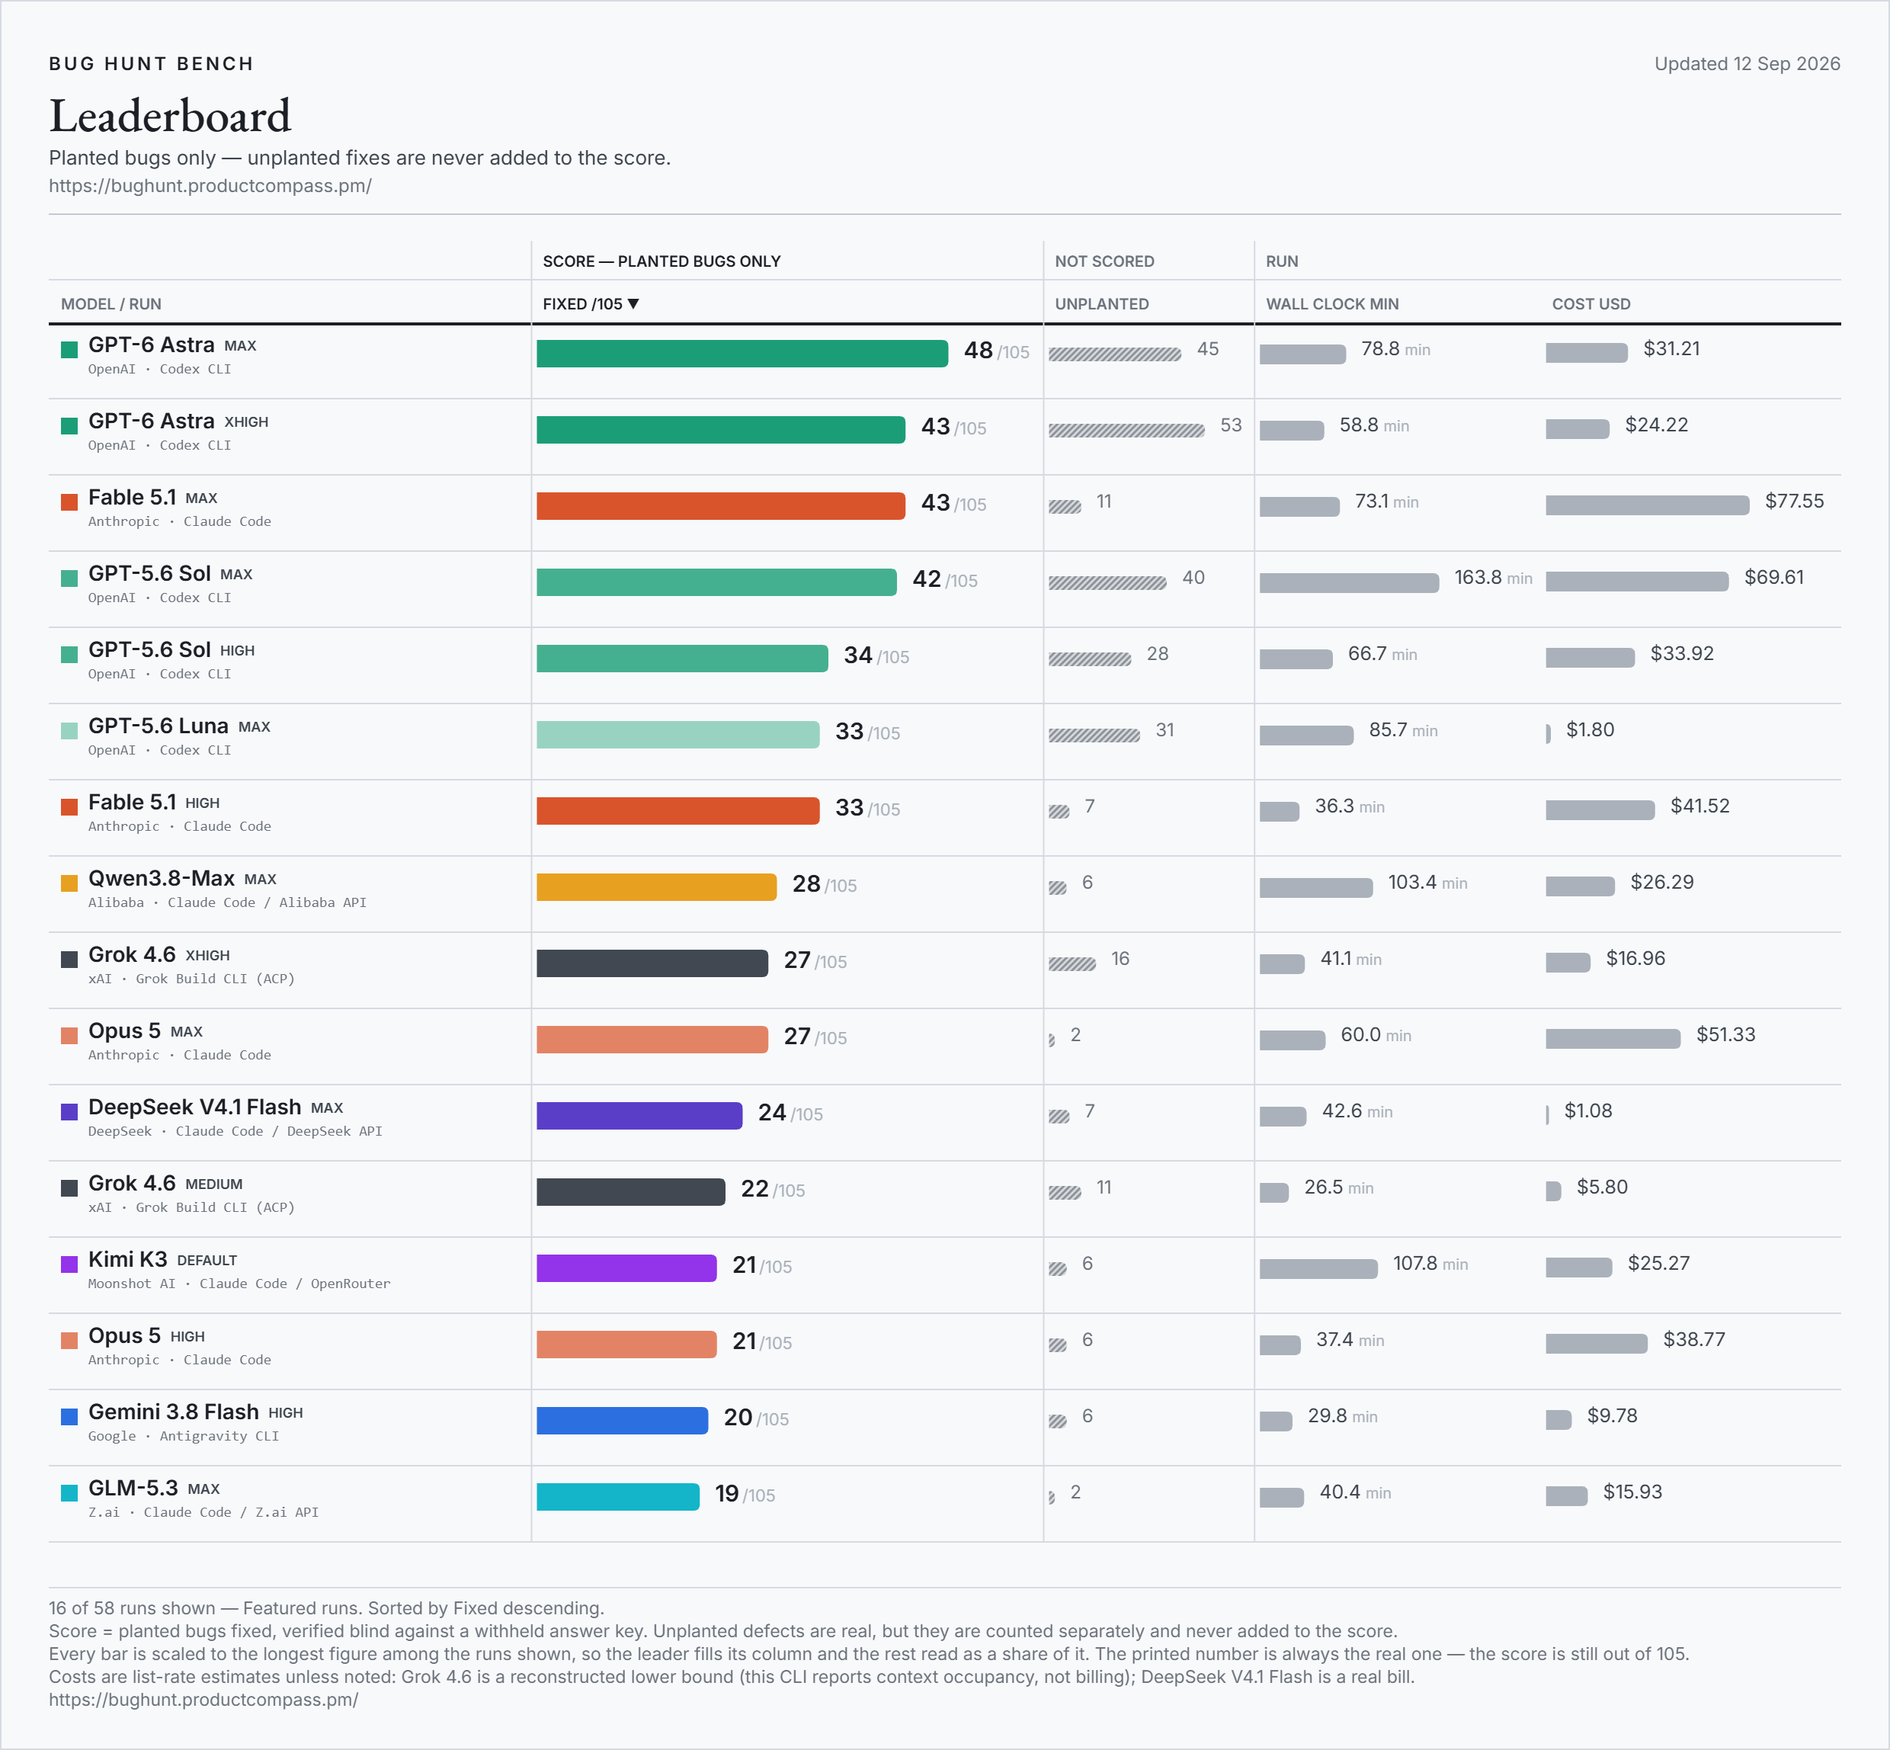
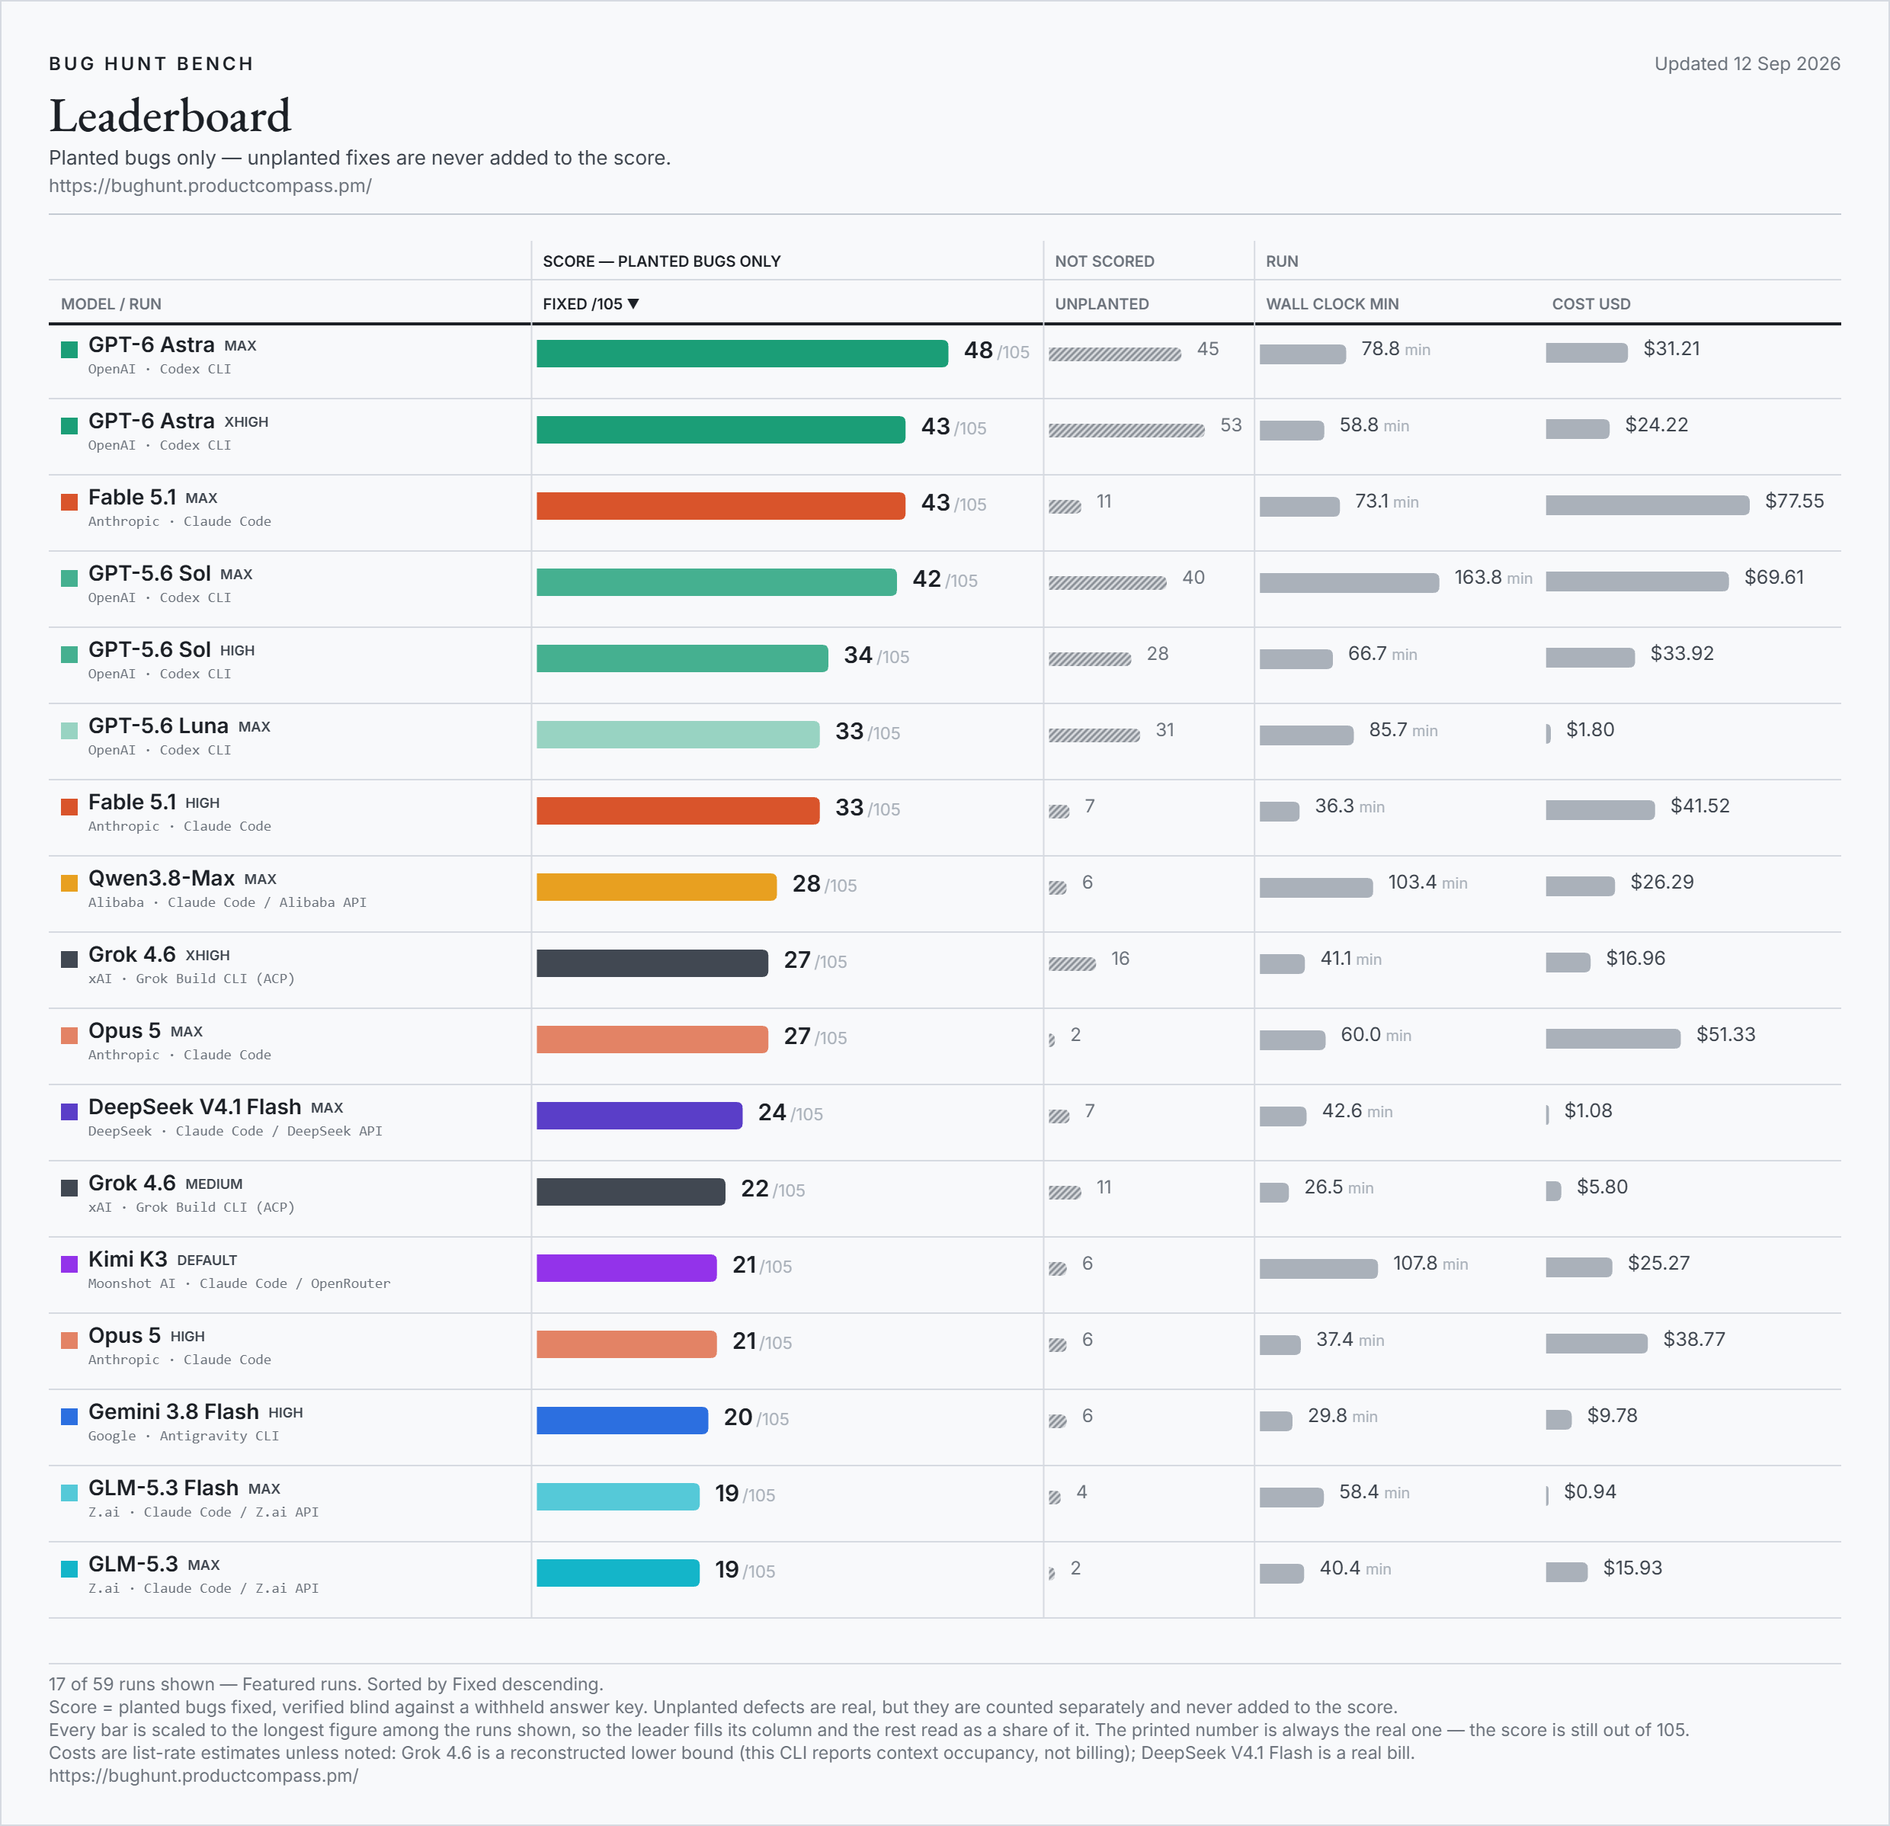
bug hunt bench: GLM-5.3 Flash (max effort, Z.ai API) (19/105)

diff --git a/index.html b/index.html
@@ -22,14 +22,14 @@
 <meta property="og:title" content="Bug Hunt Bench — frontier coding models against real planted bugs">
 <meta property="og:description" content="A blind-graded benchmark of frontier coding models on real bugs planted in two production codebases. The score counts planted bugs only; extra fixes are tracked separately and never added.">
 <meta property="og:url" content="https://bughunt.productcompass.pm/">
-<meta property="og:image" content="https://bughunt.productcompass.pm/og-image.png?v=2026-09-12-0a270415">
+<meta property="og:image" content="https://bughunt.productcompass.pm/og-image.png?v=2026-09-12-0e926b2d">
 <meta property="og:image:width" content="1200">
 <meta property="og:image:height" content="630">
 <meta property="og:image:alt" content="Bug Hunt Bench leaderboard">
 <meta name="twitter:card" content="summary_large_image">
 <meta name="twitter:title" content="Bug Hunt Bench — frontier coding models against real planted bugs">
 <meta name="twitter:description" content="A blind-graded benchmark of frontier coding models on real bugs planted in two production codebases. The score counts planted bugs only.">
-<meta name="twitter:image" content="https://bughunt.productcompass.pm/og-image.png?v=2026-09-12-0a270415">
+<meta name="twitter:image" content="https://bughunt.productcompass.pm/og-image.png?v=2026-09-12-0e926b2d">
 <meta name="twitter:creator" content="@PawelHuryn">
 
 <link rel="icon" href="/assets/favicon.svg" type="image/svg+xml">

diff --git a/method.html b/method.html
@@ -20,14 +20,14 @@
 <meta property="og:title" content="Method, caveats and definitions — Bug Hunt Bench">
 <meta property="og:description" content="How Bug Hunt Bench is run and graded, what the board cannot tell you, and what every column on it means.">
 <meta property="og:url" content="https://bughunt.productcompass.pm/method">
-<meta property="og:image" content="https://bughunt.productcompass.pm/og-image.png?v=2026-09-12-0a270415">
+<meta property="og:image" content="https://bughunt.productcompass.pm/og-image.png?v=2026-09-12-0e926b2d">
 <meta property="og:image:width" content="1200">
 <meta property="og:image:height" content="630">
 <meta property="og:image:alt" content="Bug Hunt Bench leaderboard">
 <meta name="twitter:card" content="summary_large_image">
 <meta name="twitter:title" content="Method, caveats and definitions — Bug Hunt Bench">
 <meta name="twitter:description" content="How Bug Hunt Bench is run and graded, what the board cannot tell you, and what every column on it means.">
-<meta name="twitter:image" content="https://bughunt.productcompass.pm/og-image.png?v=2026-09-12-0a270415">
+<meta name="twitter:image" content="https://bughunt.productcompass.pm/og-image.png?v=2026-09-12-0e926b2d">
 <meta name="twitter:creator" content="@PawelHuryn">
 
 <link rel="icon" href="/assets/favicon.svg" type="image/svg+xml">

diff --git a/README.md b/README.md
@@ -9,11 +9,11 @@ If the numbers save you a benchmark run of your own, **star this repo** — that
 <!-- leaderboard:start -->
 ![Bug Hunt Bench leaderboard, the featured runs, updated Sep 12, 2026](assets/leaderboard.png?v=2026-09-12)
 
-**Updated Sep 12, 2026 · 70 scored runs · 28 models · 39 of 105 bugs have never been fixed by any model.**
+**Updated Sep 12, 2026 · 71 scored runs · 28 models · 39 of 105 bugs have never been fixed by any model.**
 
 **Current leader:** GPT-6 Astra at `max` effort — **48 / 105** (24/45 on repo 1, 24/60 on repo 2).
 
-**Best run per lab:** OpenAI: GPT-6 Astra (`max`) 48 · Anthropic: Fable 5.1 (`max`) 43 · Alibaba: Qwen3.8-Max (`max`) 28 · xAI: Grok 4.6 (`xhigh`) 27 · DeepSeek: DeepSeek V4.1 Flash (`max`) 24 · Google: Gemini 3.7 Flash (`high`) 22 · Moonshot AI: Kimi K3 (`default`) 21 · Z.ai: GLM-5.3 (`max`) 19 · Tencent: Hy4 Preview (`default`) 18 · Meta: Muse Spark 1.3 (`default`) 18 · OpenAI (open weights): gpt-oss-20b (`default`) 0
+**Best run per lab:** OpenAI: GPT-6 Astra (`max`) 48 · Anthropic: Fable 5.1 (`max`) 43 · Alibaba: Qwen3.8-Max (`max`) 28 · xAI: Grok 4.6 (`xhigh`) 27 · DeepSeek: DeepSeek V4.1 Flash (`max`) 24 · Google: Gemini 3.7 Flash (`high`) 22 · Moonshot AI: Kimi K3 (`default`) 21 · Z.ai: GLM-5.3 Flash (`max`) 19 · Tencent: Hy4 Preview (`default`) 18 · Meta: Muse Spark 1.3 (`default`) 18 · OpenAI (open weights): gpt-oss-20b (`default`) 0
 
 | # | Model | Harness | Effort | Fixed /105 | Repo 1 /45 | Repo 2 /60 | Extras | Wall | Cost | Date |
 |--:|---|---|---|--:|--:|--:|--:|--:|--:|---|
@@ -52,30 +52,31 @@ If the numbers save you a benchmark run of your own, **star this repo** — that
 | 33 | GPT-5.6 Terra | Codex CLI | xhigh | **20** | 9 | 11 | 29 | 57 min | $8.98 | 2026-08-28 |
 | 34 | Gemini 3.8 Flash | Antigravity CLI | high | **20** | 7 | 13 | 6 | 30 min | $9.78 | 2026-09-02 |
 | 35 | DeepSeek V4.1 Flash | Claude Code / DeepSeek API | high | **19** | 9 | 10 | 4 | 26 min | $0.31 bill | 2026-09-10 |
-| 36 | GLM-5.3 | Claude Code / Z.ai API | max | **19** | 9 | 10 | 2 | 40 min | $15.93 | 2026-09-10 |
-| 37 | Hy4 Preview | Claude Code / OpenRouter | default | **18** | 9 | 9 | 2 | 68 min | $3.13 bill | 2026-08-28 |
-| 38 | GPT-5.6 Terra | Codex CLI | high | **18** | 7 | 11 | 17 | 28 min | $5.89 | 2026-08-27 |
-| 39 | Muse Spark 1.3 | Muse Code / OpenRouter | default | **18** | 6 | 12 | 17 | 53 min | $9.53 bill | 2026-09-12 |
-| 40 | Grok 4.5 | Grok Build CLI (ACP) | high | **17** | 5 | 12 | 10 | 28 min | $8.50 floor | 2026-08-06 |
-| 41 | Muse Spark 1.2 | Claude Code / Meta API | xhigh | **17** | 6 | 11 | 12 | 36 min | $13.99 | 2026-08-06 |
-| 42 | Ox Alpha (stealth) | Claude Code / OpenRouter | default | **16** | 8 | 8 | 3 | 59 min | free | 2026-08-25 |
-| 43 | DeepSeek V4-Pro | Claude Code / DeepSeek API | max | **16** | 8 | 8 | 4 | 37 min | $1.89 bill | 2026-09-10 |
-| 44 | Gemini 3.7 Flash | Antigravity CLI | high | **16** | 4 | 12 | 2 | 23 min | $6.36 | 2026-08-28 |
-| 45 | GPT-5.6 Terra | Codex CLI | medium | **15** | 4 | 11 | 6 | 20 min | $3.87 | 2026-08-27 |
-| 46 | Grok 4.6 | Grok Build CLI (ACP) | low | **15** | 6 | 9 | 9 | 18 min | $4.14 floor | 2026-08-27 |
-| 47 | Qwen3.8-27B | Claude Code / Alibaba API | xhigh | **15** | 6 | 9 | 2 | 47 min | $6.09 | 2026-09-12 |
-| 48 | Opus 4.8 | Claude Code | max | **15** | 6 | 9 | 3 | 109 min | $52.07 | 2026-09-10 |
-| 49 | DeepSeek V4-Flash | Claude Code / OpenRouter | default | **14** | 6 | 8 | 0 | 48 min | $1.52 bill | 2026-08-01 |
-| 50 | GPT-5.6 Luna | Codex CLI | high | **13** | 5 | 8 | 22 | 64 min | $0.57 | 2026-07-31 |
-| 51 | GLM-5.3 Flash | Claude Code / OpenRouter | default | **13** | 6 | 7 | 4 | 57 min | $0.79 bill | 2026-08-27 |
-| 52 | DeepSeek V4-Pro | Claude Code / DeepSeek API | high | **13** | 4 | 9 | 1 | 27 min | $1.08 bill | 2026-09-10 |
-| 53 | GPT-5.6 Luna | Codex CLI | medium | **9** | 5 | 4 | 5 | 15 min | $0.33 | 2026-08-27 |
-| 54 | Sonnet 5 | Claude Code | high | **9** | 1 | 8 | 4 | 33 min | $15.12 | 2026-07-26 |
-| 55 | Opus 4.8 | Claude Code | high | **9** | 2 | 7 | 1 | 35 min | $19.35 | 2026-07-26 |
-| 56 | Sonnet 5 | Claude Code | max | **9** | 3 | 6 | 3 | 61 min | $24.04 | 2026-09-10 |
-| 57 | GPT-5.6 Luna | Codex CLI | low | **4** | 0 | 4 | 1 | 6 min | $0.10 | 2026-08-27 |
-| 58 | gpt-oss-20b | Claude Code / OpenRouter | default | **0** | 0 | 0 | 0 | 4 min | $0.11 bill | 2026-09-12 |
-| 59 | gpt-oss-120b | Claude Code / OpenRouter | default | **0** | 0 | 0 | 1 | 4 min | $0.13 bill | 2026-09-12 |
+| 36 | GLM-5.3 Flash | Claude Code / Z.ai API | max | **19** | 10 | 9 | 4 | 58 min | $0.94 | 2026-09-12 |
+| 37 | GLM-5.3 | Claude Code / Z.ai API | max | **19** | 9 | 10 | 2 | 40 min | $15.93 | 2026-09-10 |
+| 38 | Hy4 Preview | Claude Code / OpenRouter | default | **18** | 9 | 9 | 2 | 68 min | $3.13 bill | 2026-08-28 |
+| 39 | GPT-5.6 Terra | Codex CLI | high | **18** | 7 | 11 | 17 | 28 min | $5.89 | 2026-08-27 |
+| 40 | Muse Spark 1.3 | Muse Code / OpenRouter | default | **18** | 6 | 12 | 17 | 53 min | $9.53 bill | 2026-09-12 |
+| 41 | Grok 4.5 | Grok Build CLI (ACP) | high | **17** | 5 | 12 | 10 | 28 min | $8.50 floor | 2026-08-06 |
+| 42 | Muse Spark 1.2 | Claude Code / Meta API | xhigh | **17** | 6 | 11 | 12 | 36 min | $13.99 | 2026-08-06 |
+| 43 | Ox Alpha (stealth) | Claude Code / OpenRouter | default | **16** | 8 | 8 | 3 | 59 min | free | 2026-08-25 |
+| 44 | DeepSeek V4-Pro | Claude Code / DeepSeek API | max | **16** | 8 | 8 | 4 | 37 min | $1.89 bill | 2026-09-10 |
+| 45 | Gemini 3.7 Flash | Antigravity CLI | high | **16** | 4 | 12 | 2 | 23 min | $6.36 | 2026-08-28 |
+| 46 | GPT-5.6 Terra | Codex CLI | medium | **15** | 4 | 11 | 6 | 20 min | $3.87 | 2026-08-27 |
+| 47 | Grok 4.6 | Grok Build CLI (ACP) | low | **15** | 6 | 9 | 9 | 18 min | $4.14 floor | 2026-08-27 |
+| 48 | Qwen3.8-27B | Claude Code / Alibaba API | xhigh | **15** | 6 | 9 | 2 | 47 min | $6.09 | 2026-09-12 |
+| 49 | Opus 4.8 | Claude Code | max | **15** | 6 | 9 | 3 | 109 min | $52.07 | 2026-09-10 |
+| 50 | DeepSeek V4-Flash | Claude Code / OpenRouter | default | **14** | 6 | 8 | 0 | 48 min | $1.52 bill | 2026-08-01 |
+| 51 | GPT-5.6 Luna | Codex CLI | high | **13** | 5 | 8 | 22 | 64 min | $0.57 | 2026-07-31 |
+| 52 | GLM-5.3 Flash | Claude Code / OpenRouter | default | **13** | 6 | 7 | 4 | 57 min | $0.79 bill | 2026-08-27 |
+| 53 | DeepSeek V4-Pro | Claude Code / DeepSeek API | high | **13** | 4 | 9 | 1 | 27 min | $1.08 bill | 2026-09-10 |
+| 54 | GPT-5.6 Luna | Codex CLI | medium | **9** | 5 | 4 | 5 | 15 min | $0.33 | 2026-08-27 |
+| 55 | Sonnet 5 | Claude Code | high | **9** | 1 | 8 | 4 | 33 min | $15.12 | 2026-07-26 |
+| 56 | Opus 4.8 | Claude Code | high | **9** | 2 | 7 | 1 | 35 min | $19.35 | 2026-07-26 |
+| 57 | Sonnet 5 | Claude Code | max | **9** | 3 | 6 | 3 | 61 min | $24.04 | 2026-09-10 |
+| 58 | GPT-5.6 Luna | Codex CLI | low | **4** | 0 | 4 | 1 | 6 min | $0.10 | 2026-08-27 |
+| 59 | gpt-oss-20b | Claude Code / OpenRouter | default | **0** | 0 | 0 | 0 | 4 min | $0.11 bill | 2026-09-12 |
+| 60 | gpt-oss-120b | Claude Code / OpenRouter | default | **0** | 0 | 0 | 1 | 4 min | $0.13 bill | 2026-09-12 |
 
 Extras are real, unplanted defects a model fixed on the way; they are counted and never added to the score. Costs are token estimates at published list rates unless tagged **bill** (an actual invoice or credits delta) or **floor** (a reconstructed lower bound). `default` effort means the serving path had no working effort dial; *ran lower* marks a run whose CLI quietly replaced the requested tier. Wall clock is repo 1 plus repo 2 agent time, dependency install excluded.
 11 superseded re-runs stay in the CSVs and on the [live board](https://bughunt.productcompass.pm/?preset=all) but are left off this table.

diff --git a/results/waves.md b/results/waves.md
@@ -1603,3 +1603,56 @@ first attempt at this row was billed for a response it never saw. Both legs here
 fixes in place, and the repo-1 leg was re-run from scratch after it was found to have started three
 minutes before the second fix landed.
 
+
+### GLM-5.3 Flash, first-party: the small one catches the big one
+
+**19 of 105 for 94 cents.** GLM-5.3 Flash on Z.ai's own Anthropic-compatible endpoint, no
+aggregator and no proxy, at an asserted `max` — the same path and the same tier as the full-size
+GLM-5.3 row, so the two sizes differ by model and nothing else.
+
+| | score | cost | wall | effort |
+|---|---:|---:|---:|:--|
+| GLM-5.3 — Z.ai, max | 19/105 | $15.93 | 40.4 min | setting |
+| **GLM-5.3 Flash — Z.ai, max** | **19/105** | **$0.94** | 58.4 min | setting |
+| GLM-5.3 — OpenRouter | 19/105 | $19.73 | 66.7 min | dropped in transit |
+| GLM-5.3 Flash — OpenRouter | 13/105 | $0.79 | 57.1 min | dropped in transit |
+
+**Flash matches its full-size sibling for a sixteenth of the money.** It is slower — 58 minutes
+against 40 — so the trade is wall clock, not capability.
+
+**And the obvious story about the other jump is wrong.** Flash went 13 → 19 moving from OpenRouter
+to first-party-at-max, which invites the reading that the tier now binds and bought six points. The
+control on this very page argues against it: **the full-size model scored 19 on both routes** — the
+same change of route and tier moved it by zero. Each of these is a single run, no repeat exists for
+either Flash leg, and a six-point move at n=1 does not clear the run-to-run spread measured
+elsewhere on this board. Read 19 as where Flash lands first-party, not as what `max` bought.
+
+**Why this row is two days late, and it was not an oversight.** The first-party pass on Sep 10 tried
+Flash *first* and got HTTP 429 on that key, so the receipt was written against the full-size model
+and Flash kept its aggregator row. The 429 is gone.
+
+**The probe nearly published the exact opposite, and that near-miss is the transferable part**
+([receipt](effort-dial-probes/20260912-glm53flash-zai-anthropic.txt)). The first pass sent
+`reasoning_effort` at the top level — **Z.ai's own documented field name**. Every tier returned 200,
+including an invented `bogus_zzz`, while a bad model id returned 400. Textbook inert dial. The
+verdict written was *NOT VALIDATED — TREAT AS INERT*, and a row shipped on it would have said the
+dial does not bind here.
+
+It was wrong because **Claude Code does not send that field.** On an Anthropic-compatible route it
+sends `output_config.effort`, and that is what this endpoint validates — hard:
+
+| `output_config.effort` | GLM-5.3 Flash | GLM-5.3 |
+|---|:--|:--|
+| `low` / `high` / `max` | 200 | 200 |
+| `none` / `minimal` / `medium` / `xhigh` | 400 | 400 |
+| `bogus_zzz` | 400 | 400 |
+| *(bad model id)* | 400, different code | 400, different code |
+
+> A validation probe has to send **the field the harness sends.** Probing the vendor's documented
+> field name tests a path the arm will never take, and the answer it gives is about that path.
+
+Two things fall out of the table. The dial on this family is **exactly three tiers** — `medium`
+does not exist here, so a medium row is not available to be run — and `max` is also Z.ai's
+documented default, which means a `default` run and a `max` run on this path are the same run. The
+row asserts the tier rather than relying on that.
+
